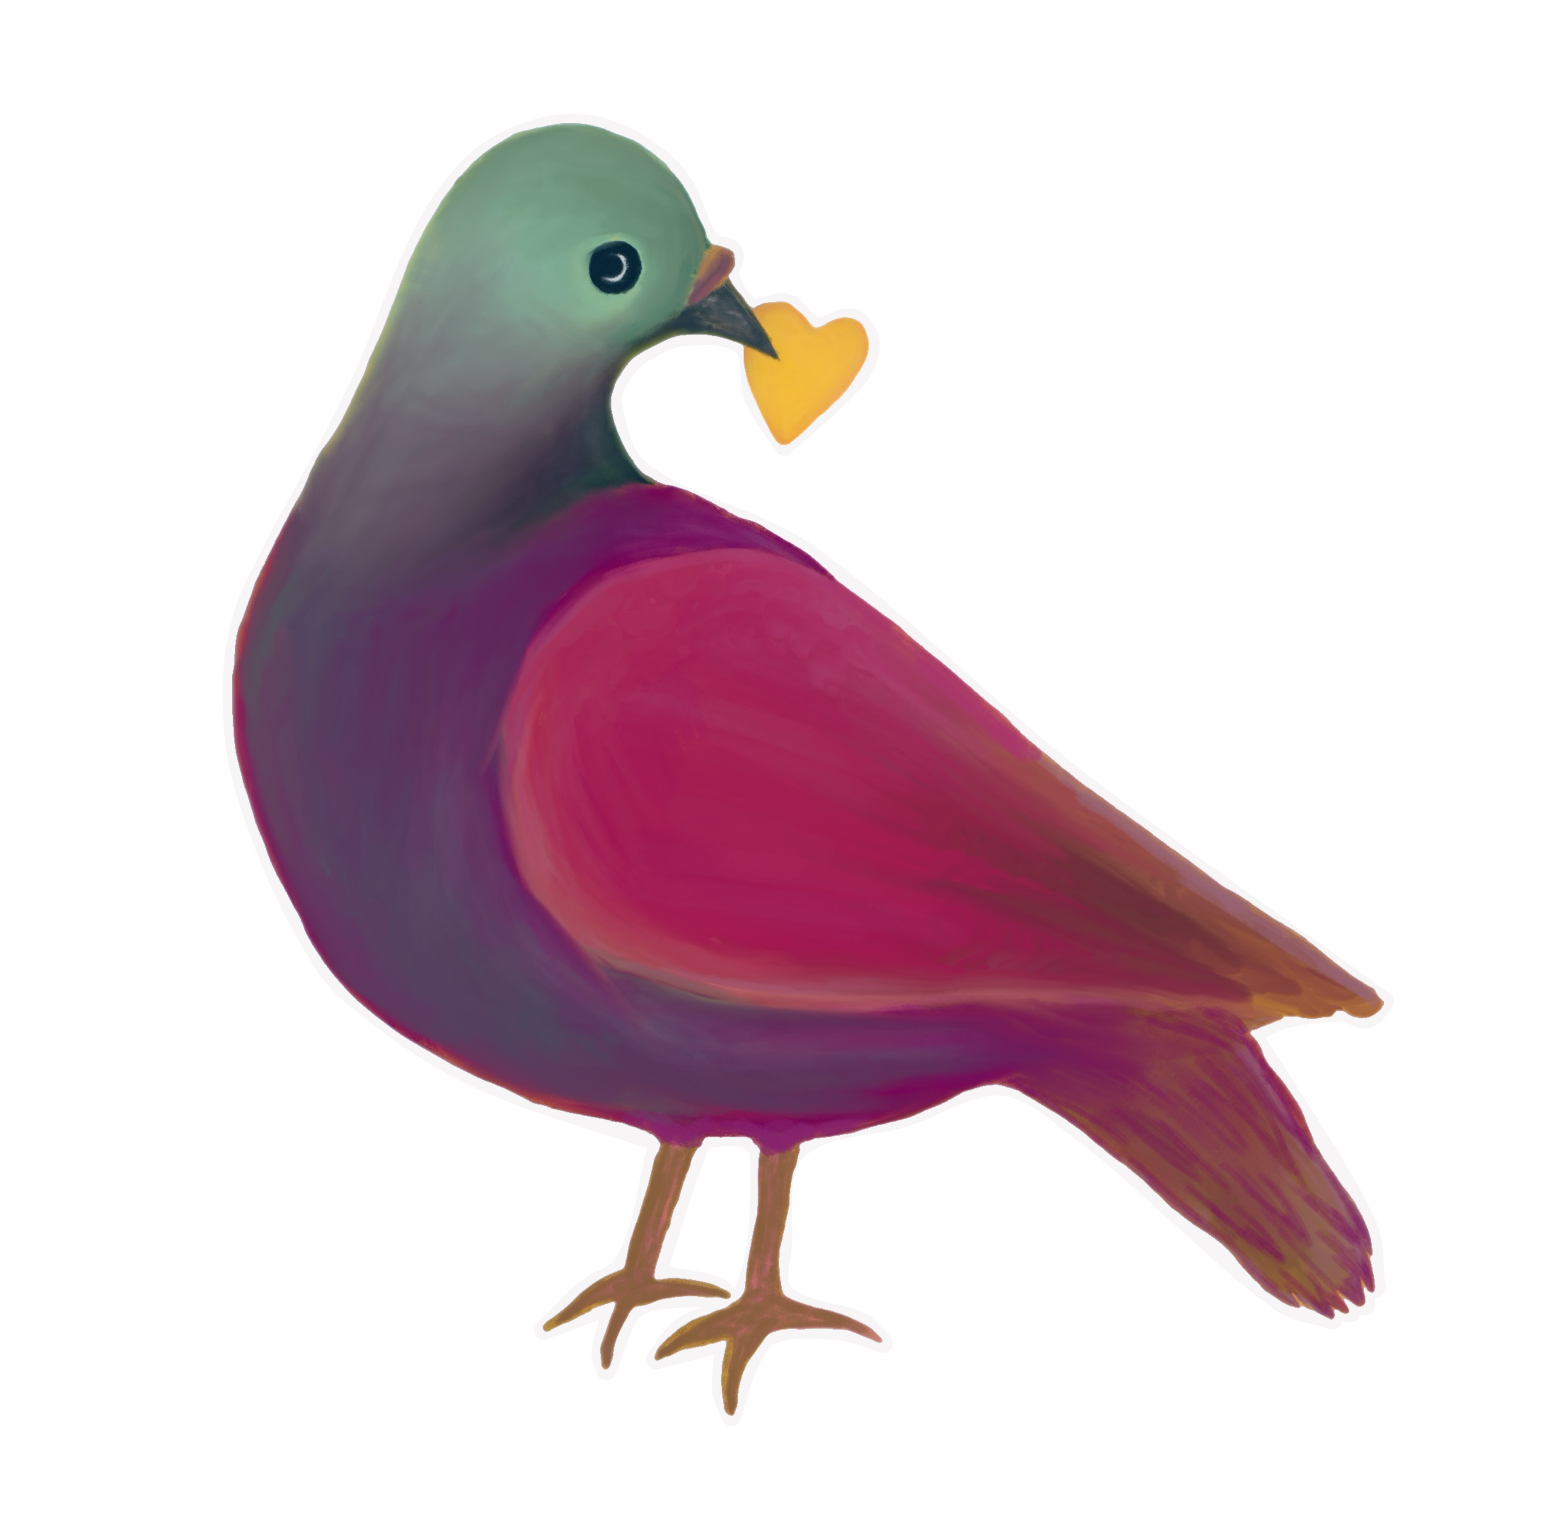
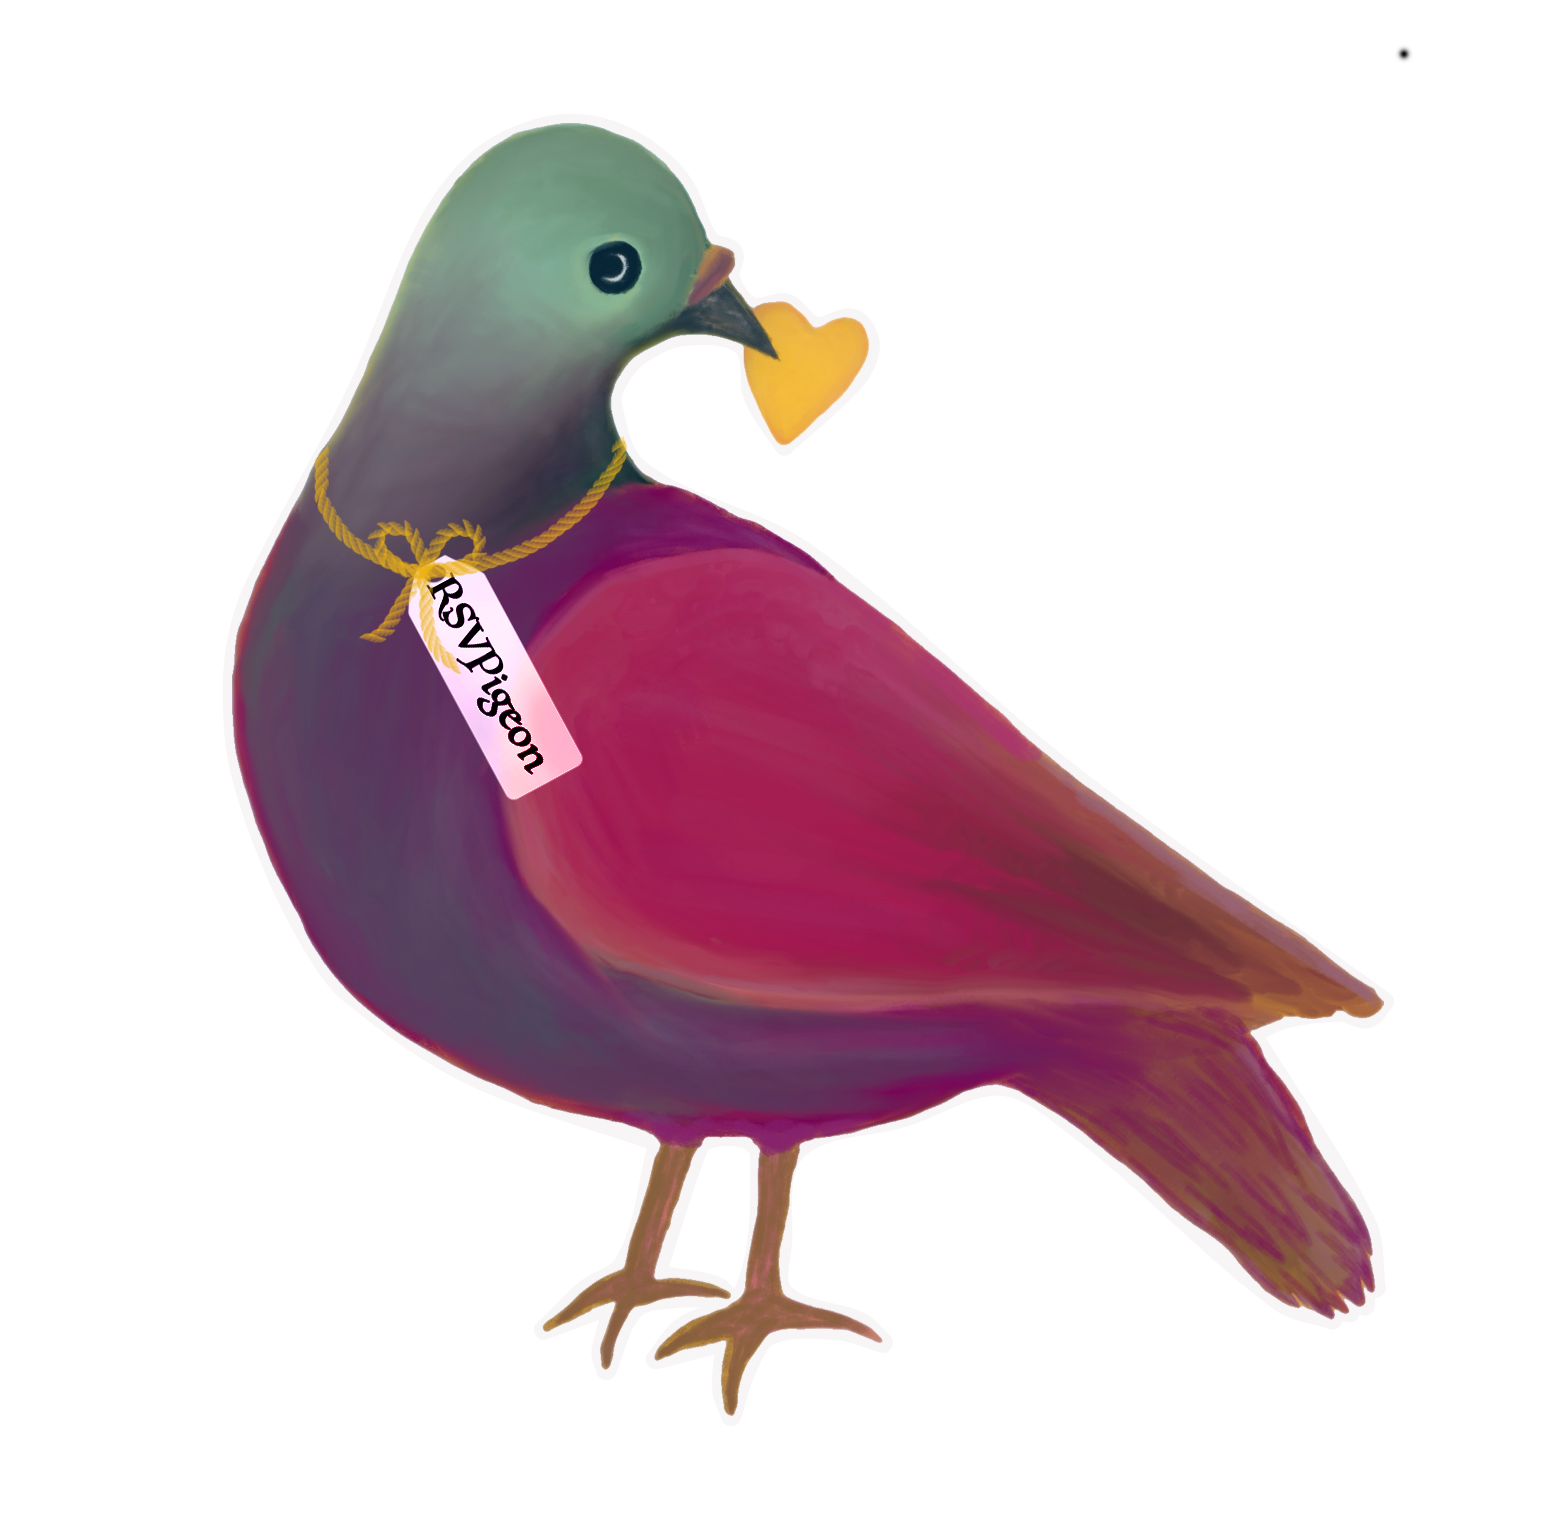
RSVP form implementation

Changed region(s): [[0.2168, 0.339, 0.3716, 0.5239], [0.3716, 0.2774, 0.4026, 0.339], [0.1858, 0.2774, 0.2168, 0.339]]

diff --git a/index.html b/index.html
@@ -8,7 +8,11 @@
 		<noscript><link rel="stylesheet" href="assets/css/noscript.css" /></noscript>
 	</head>
 	<body class="is-preload">
-
+<!-- Alert-->
+<div class="alert">
+	<span class="closebtn" onclick="this.parentElement.style.display='none';">&times;</span>
+	Please click on the big pigeon to fill out the RSVP form!<span class="closebtn">dismiss this alert if you've already RSVP'd -->
+</div>
 		<!-- Wrapper-->
 			<div id="wrapper">
 
@@ -32,7 +36,7 @@
 									<p>We're having a wedding!<br>We'd both love to have you with us to celebrate</p>
 									<i>Love, Amy and Kate</i>
 								</header>
-								<a href="#schedule" class="jumplink pic">
+								<a href="#rsvp" class="jumplink pic">
 								<!--<span class="arrow icon solid fa-chevron-right"><span>We'd love if you'd be part of it :)</span></span>-->
 									<img src="assets/images/pigeon.png" alt="A painterly illustration of a pigeon holding a love heart in its beak" />
 								</a>
@@ -123,7 +127,75 @@
 									</div>
 								</form>
 							</article>
-
+<!-- RSVP Form -->
+						<article id="rsvp" class="panel">
+							<header>
+								<h2>RSVP</h2>
+							</header>
+							<p>Please submit one form per guest OR select multiple guests whose RSVP details are identical and submit them as a group, whatever is easier for your situation.</p>
+<form action="https://formbold.com/s/35pZL" method="POST">
+	<label for="rsvp">Choose a guest (or more than one by holding down ⌃CTRL or ⌘CMD while you click if everyone's attendance will match):</label>
+	<select multiple>
+		<optgroup label="Amy's Family">
+			<option>Andy</option>
+			<option>Mary</option>
+			<option>Jill</option>
+			<option>Chris</option>
+			<option>Lowen</option>
+			<option>Aubree</option>
+			<option>Ian</option>
+			<option>Gemma</option>
+			<option>Naomi</option>
+			<option>Adam</option>
+			<option>Hilly</option>
+		</optgroup>
+		<optgroup label="Kate's Family">
+			<option>Mark</option>
+			<option>Claire</option>
+			<option>Gabe</option>
+			<option>Tara</option>
+			<option>Izzy</option>
+			<option>Ina</option>
+			<option>Moss</option>
+			<option>Ira</option>
+			<option>Karen</option>
+			<option>Ruth</option>
+			<option>Josh</option>
+		</optgroup>
+		<optgroup label="Friends">
+			<option>Jen</option>
+			<option>Chanel</option>
+			<option>Jennie</option>
+			<option>Julie</option>
+			<option>David</option>
+			<option>Sarah</option>
+			<option>Adam</option>
+			<option>Abelee</option>
+			<option>Peter</option>
+			<option>Rita</option>
+		</optgroup>
+	</select>
+	<p><br>Please select the events that the person (or people) selected above will be attending (no one will hold you to this, but we can't help being curious about whom to expect):</p>
+	<input type="checkbox" id="canteen" class="checkbox" name="dinner" value="Dinner">
+	<label for="canteen">The Canteen @ 6:30 PM on Saturday evening</label><br>
+	<input type="checkbox" id="race-point" class="checkbox" name="race-point" value="Morning Beach Outing">
+	<label for="race-point">Race Point Beach between 9 AM Sunday morning and the ceremony</label><br>
+	<input type="checkbox" id="visitors-center" class="checkbox" name="ceremony" value="Ceremony">
+	<label for="visitors-center"> 10:30 AM WEDDING CEREMONY (important)</label><br>
+	<input type="checkbox" id="lizs" class="checkbox" name="ceremony" value="Ceremony">
+	<label for="lizs"> 11:30 AM on Sunday, Celebratory Brunch @ Liz's! (important)</label><br>
+	<input type="checkbox" id="herring-cove" class="checkbox" name="ceremony" value="Ceremony">
+	<label for="herring-cove">5 PM Herring Cove Beach fire/s'mores/hangout</label><br>
+	<input type="checkbox" id="pbc" class="checkbox" name="ceremony" value="Ceremony">
+	<label for="pbc">7 PM Beer and bar food at Providence Brewing Company</label><br>
+							<div class="formbuilder-text form-group field-tel">
+								<input type="tel" placeholder="Telephone No. for Event Updates" class="form-control" name="tel" access="false" id="tel">
+							</div><br>
+	<div class="col-12">
+		<input type="submit" value="Submit RSVP" />
+	</div>
+</form>
+						</article>
 						<!-- Dinner -->
 						<article id="dinner" class="panel">
 							<header>

diff --git a/assets/css/main.css b/assets/css/main.css
@@ -20,7 +20,7 @@ section, summary, time, mark, audio, video {
 	vertical-align: baseline;}
 
 article, aside, details, figcaption, figure,
-footer, header, hgroup, menu, nav, section {
+footer, header, hgroup, menu, nav, section, iframe {
 	display: block;}
 
 body {
@@ -64,6 +64,131 @@ input, select, textarea {
 	-webkit-appearance: none;
 	-ms-appearance: none;
 	appearance: none;
+}
+
+[type="checkbox"]:not(:checked),
+[type="checkbox"]:checked {
+	position: absolute;
+	left: 0;
+	opacity: 0.01;
+}
+[type="checkbox"]:not(:checked) + label,
+[type="checkbox"]:checked + label {
+	position: relative;
+	padding-left: 2.3em;
+	font-size: 1.05em;
+	line-height: 1.7;
+	cursor: pointer;
+}
+
+/* checkbox aspect */
+[type="checkbox"]:not(:checked) + label:before,
+[type="checkbox"]:checked + label:before {
+	content: '';
+	position: absolute;
+	left: 0;
+	top: 0;
+	width: 1.4em;
+	height: 1.4em;
+	border: 1px solid #aaa;
+	background: #FFF;
+	border-radius: .2em;
+	box-shadow: inset 0 1px 3px rgba(0,0,0, .1), 0 0 0 rgba(203, 34, 237, .2);
+	-webkit-transition: all .275s;
+	transition: all .275s;
+}
+
+/* checked mark aspect */
+[type="checkbox"]:not(:checked) + label:after,
+[type="checkbox"]:checked + label:after {
+	content: '✕';
+	position: absolute;
+	top: .525em;
+	left: .18em;
+	font-size: 1.375em;
+	color: #CB22ED;
+	line-height: 0;
+	-webkit-transition: all .2s;
+	transition: all .2s;
+}
+
+/* checked mark aspect changes */
+[type="checkbox"]:not(:checked) + label:after {
+	opacity: 0;
+	-webkit-transform: scale(0) rotate(45deg);
+	transform: scale(0) rotate(45deg);
+}
+
+[type="checkbox"]:checked + label:after {
+	opacity: 1;
+	-webkit-transform: scale(1) rotate(0);
+	transform: scale(1) rotate(0);
+}
+
+.dropdown {
+	position: relative;
+	display: inline-block;
+}
+
+.dropdown-content {
+	display: none;
+	position: absolute;
+	background-color: #f9f9f9;
+	min-width: 160px;
+	box-shadow: 0px 8px 16px 0px rgba(0,0,0,0.2);
+	z-index: 1;
+}
+
+.dropdown-content label {
+	display: block;
+	margin-top: 10px;
+}
+
+.dropdown:hover .dropdown-content {
+	display: block;
+}
+
+/* Disabled checkbox */
+[type="checkbox"]:disabled:not(:checked) + label:before,
+[type="checkbox"]:disabled:checked + label:before {
+	box-shadow: none;
+	border-color: #bbb;
+	background-color: #e9e9e9;
+}
+
+[type="checkbox"]:disabled:checked + label:after {
+	color: #777;
+}
+
+[type="checkbox"]:disabled + label {
+	color: #aaa;
+}
+
+/* Accessibility */
+[type="checkbox"]:checked:focus + label:before,
+[type="checkbox"]:not(:checked):focus + label:before {
+	box-shadow: inset 0 1px 3px rgba(0,0,0, .1), 0 0 0 6px rgba(203, 34, 237, .2);
+}
+
+.alert {
+	padding: 20px;
+	background-color: #b30695;
+	color: seashell;
+}
+
+.closebtn {
+	margin-left: 15px;
+	color: white;
+	font-weight: bold;
+	float: right;
+	font-size: 1em;
+	line-height: 1.5em;
+	cursor: pointer;
+	transition: 0.3s;
+}
+
+.closebtn:hover {
+	color: darkslategrey;
 }
 
 /* Row */
@@ -1503,6 +1628,8 @@ input, select, textarea {
 	form input[type="text"],
 	form input[type="email"],
 	form input[type="password"],
+	form input[type="tel"],
+	form input[type="fieldset"],
 	form select,
 	form textarea {
 		-webkit-appearance: none;
@@ -1519,6 +1646,8 @@ input, select, textarea {
 		form input[type="text"]:focus,
 		form input[type="email"]:focus,
 		form input[type="password"]:focus,
+		form input[type="tel"],
+		form input [type="fieldset"],
 		form select:focus,
 		form textarea:focus {
 			background: #f8f8f8;
@@ -1527,6 +1656,7 @@ input, select, textarea {
 	form input[type="text"],
 	form input[type="email"],
 	form input[type="password"],
+	form input[type="tel"],
 	form select {
 		line-height: 1.35em;
 	}
